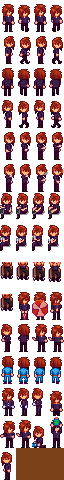
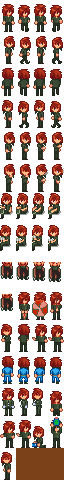
Faded green clothes on all Sebastian sheets (normal, beach, winter)

diff --git a/scripts/recolor.py b/scripts/recolor.py
@@ -1,5 +1,5 @@
 #!/usr/bin/env python3
-"""Recolor Sebastian's walking sprites: red hair + brown eyes.
+"""Recolor Sebastian's walking sprites: red hair, brown eyes, faded-green clothes.
 
 Usage: python3 scripts/recolor.py <input.png> <output.png>
 
@@ -35,15 +35,30 @@ SHARED_IRIS = (70, 51, 108)
 SHARED_IRIS_BROWN = (88, 50, 26)
 
 
-def touches_eye_white(px, x, y, w, h):
+def touches(px, x, y, w, h, colors):
+    """True if any of the 4 neighbours of (x, y) has one of `colors`."""
     for dx, dy in ((1, 0), (-1, 0), (0, 1), (0, -1)):
         nx, ny = x + dx, y + dy
-        if 0 <= nx < w and 0 <= ny < h and px[nx, ny][:3] == EYE_WHITE:
+        if 0 <= nx < w and 0 <= ny < h and px[nx, ny][:3] in colors:
             return True
     return False
 
+
+def touches_eye_white(px, x, y, w, h):
+    return touches(px, x, y, w, h, {EYE_WHITE})
+
 # Dark-to-light red ramp the hair gets mapped onto.
 RED_RAMP = [(62, 8, 12), (112, 20, 18), (160, 40, 24), (204, 72, 36), (232, 112, 56)]
+
+
+# Dark-to-light faded olive/sage ramp for clothes.
+GREEN_RAMP = [(22, 28, 20), (40, 52, 36), (62, 78, 54), (90, 106, 74), (124, 138, 100), (162, 172, 136)]
+CLOTH_LUM_MAX = 120  # brightness of the lightest purple (winter scarf) -> top of ramp
+SHIRT = {(255, 255, 255): (200, 208, 176), (198, 198, 198): (152, 164, 128)}  # beach shirt
+KEEP = {(51, 32, 35)}  # shoes
+# Purple used as the outline of hands/legs. Next to skin it's an outline, not cloth.
+SKIN_OUTLINE = (91, 34, 86)
+SKIN_OUTLINE_NEW = (150, 74, 58)
 
 
 def luminance(c):
@@ -57,12 +72,18 @@ def is_hair_color(c):
     return luminance(c) < 75 and b >= g and r >= g
 
 
-def ramp(t):
-    """Interpolate RED_RAMP at t in [0, 1]."""
-    t = max(0.0, min(1.0, t)) * (len(RED_RAMP) - 1)
-    i = min(int(t), len(RED_RAMP) - 2)
+def is_cloth_color(c):
+    """Purples of any brightness (hoodie, pants, scarf): red & blue >= green."""
+    r, g, b = c[:3]
+    return b >= g and r >= g and luminance(c) < CLOTH_LUM_MAX + 10 and c[:3] not in KEEP
+
+
+def ramp(t, colors=RED_RAMP):
+    """Interpolate a color ramp at t in [0, 1]."""
+    t = max(0.0, min(1.0, t)) * (len(colors) - 1)
+    i = min(int(t), len(colors) - 2)
     f = t - i
-    a, b = RED_RAMP[i], RED_RAMP[i + 1]
+    a, b = colors[i], colors[i + 1]
     return tuple(round(a[k] + (b[k] - a[k]) * f) for k in range(3))
 
 
@@ -106,9 +127,17 @@ def main(src, dst):
                     elif p[:3] == SHARED_IRIS and touches_eye_white(
                             px, fx + x, fy + y, im.width, im.height):
                         px[fx + x, fy + y] = SHARED_IRIS_BROWN + (p[3],)
+                    elif y > chin and p[:3] == SKIN_OUTLINE and touches(
+                            px, fx + x, fy + y, im.width, im.height, SKIN):
+                        px[fx + x, fy + y] = SKIN_OUTLINE_NEW + (p[3],)
                     elif y <= chin and is_hair_color(p):
                         t = (luminance(p) - lo) / (hi - lo)
                         px[fx + x, fy + y] = ramp(t) + (p[3],)
+                    elif y > chin and p[:3] in SHIRT:
+                        px[fx + x, fy + y] = SHIRT[p[:3]] + (p[3],)
+                    elif is_cloth_color(p) and (y > chin or luminance(p) >= 75):
+                        t = luminance(p) / CLOTH_LUM_MAX
+                        px[fx + x, fy + y] = ramp(t, GREEN_RAMP) + (p[3],)
 
     im.save(dst)
     print(f"wrote {dst}")
